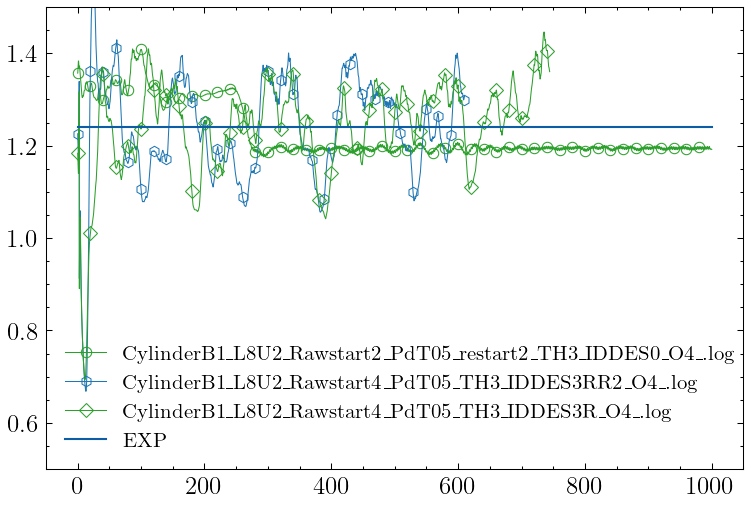
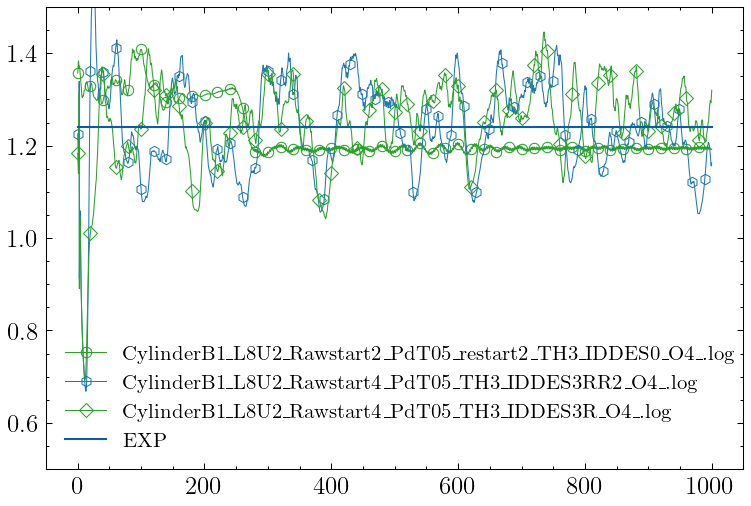
DES data change

Changed region(s): [[0.6125, 0.0889, 0.9494, 0.415], [0.6125, 0.2964, 0.6431, 0.415]]

diff --git a/DNDSR/DESTests/index.md b/DNDSR/DESTests/index.md
@@ -364,22 +364,24 @@ with $C_{dF}=0.2$.
 | CylinderB1_L8U2_Rawstart2_PdT05_restart2_TH3_IDDES0_.log    | 1.3309e+00 | 909.3   | 18000 |
 | CylinderB1_L8U2_Rawstart2_PdT05_restart2_TH3_IDDES0_O4_.log | 1.1945e+00 | -454.6  | 18000 |
 | CylinderB1_L8U2_Rawstart3_PdT05_TH3_ILES_O4_.log            | 1.0525e+00 | -1874.7 | 18000 |
-| CylinderB1_L8U2_Rawstart4_PdT05_TH3_ILES_dF02R_O4_.log      | 1.0250e+00 | -2149.7 | 11155 |
-| CylinderB1_L8U2_Rawstart4_PdT05_TH3_ILES_dF02R_O4_GW2_.log  | 9.5064e-01 | -2893.6 | 2036  |
+| CylinderB1_L8U2_Rawstart4_PdT05_TH3_ILES_dF02R_O4_.log      | 1.0370e+00 | -2029.9 | 11607 |
+| CylinderB1_L8U2_Rawstart4_PdT05_TH3_ILES_dF02R_O4_GW2_.log  | 9.8482e-01 | -2551.8 | 11942 |
 | CylinderB1_L8U2_Rawstart4_PdT05_TH3_IDDES3RR1_.log          | 1.2726e+00 | 326.0   | 18000 |
 | CylinderB1_L8U2_Rawstart4_PdT05_TH3_IDDES3RR1_dF02_.log     | 1.2477e+00 | 77.4    | 17586 |
 | CylinderB1_L8U2_Rawstart4_PdT05_TH3_IDDES5RR2_.log          | 1.2855e+00 | 455.0   | 18000 |
 | CylinderB1_L8U2_Rawstart4_PdT05_TH3_IDDES3RR2_.log          | 1.2654e+00 | 253.9   | 18000 |
-| CylinderB1_L8U2_Rawstart4_PdT05_TH3_IDDES3RR2_O4_.log       | 1.2246e+00 | -153.6  | 10024 |
-| CylinderB1_L8U2_Rawstart4_PdT05_TH3_IDDES3RR2_dF02_O4_.log  | 1.0547e+00 | -1852.6 | 8669  |
-| CylinderB1_L8U2_Rawstart4_PdT05_TH3_IDDES3R_O4_.log         | 1.3132e+00 | 732.3   | 12888 |
+| CylinderB1_L8U2_Rawstart4_PdT05_TH3_IDDES3RR2_O4_.log       | 1.2005e+00 | -395.1  | 17823 |
+| CylinderB1_L8U2_Rawstart4_PdT05_TH3_IDDES3RR2_dF02_O4_.log  | 1.1362e+00 | -1038.2 | 10520 |
+| CylinderB1_L8U2_Rawstart4_PdT05_TH3_IDDES3R_O4_.log         | 1.2586e+00 | 186.1   | 18000 |
 | CylinderB1_L8U2_Rawstart4_PdT05_TH3_IDDES3R_dF02_.log       | 1.2136e+00 | -264.4  | 17670 |
 | CylinderB1_L8U2_Rawstart4_PdT05_TH3_IDDES3R_.log            | 1.3048e+00 | 648.1   | 18000 |
 | CylinderB1_L8U2_Raw4dT05_TH2_dF02_O4_GW2_.log               | 1.0958e+00 | -1441.8 | 2739  |
 | CylinderB1_L8U2_Raw4dT05_TH2_dF02_O4_.log                   | 9.4938e-01 | -2906.2 | 0     |
-| CylinderB1_L8U2_Raw4dT05_TH2_O4_GW2_.log                    | 1.1956e+00 | -444.1  | 5869  |
-| CylinderB1_L8U2_Raw4dT05_TH3_O4_GW2_.log                    | 1.1986e+00 | -414.0  | 5913  |
-| CylinderB1_L8U2_Raw4dT05_TH3_O4_.log                        | 1.2324e+00 | -76.4   | 5443  |
+| CylinderB1_L8U2_Raw4dT05_TH2_O4_GW2_.log                    | 1.2364e+00 | -36.1   | 18000 |
+| CylinderB1_L8U2_Raw4dT05_TH3_O4_GW2_.log                    | 1.2654e+00 | 254.1   | 18000 |
+| CylinderB1_L8U2_Raw4dT05_TH3_O4_.log                        | 1.2876e+00 | 476.5   | 18000 |
+| CylinderB1_L8U2_Raw4dT05_TH3R_O4_GW2_.log                   | 1.2706e+00 | 306.4   | 12820 |
+| CylinderB1_L8U2_Raw4dT05_TH3R_O4_.log                       | 1.2178e+00 | -222.1  | 12871 |
 
 ![Drag Coefficients, filter window 500 (25 time units)](drags_All.png)
 
